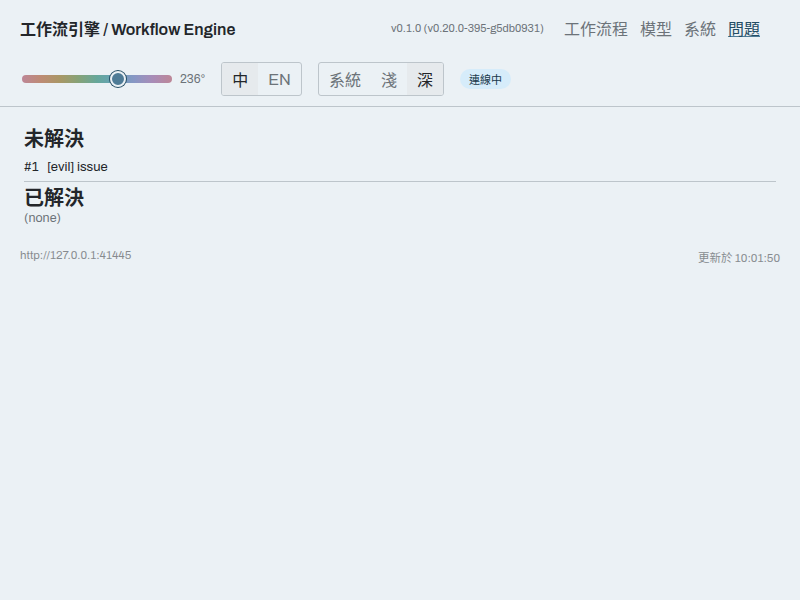
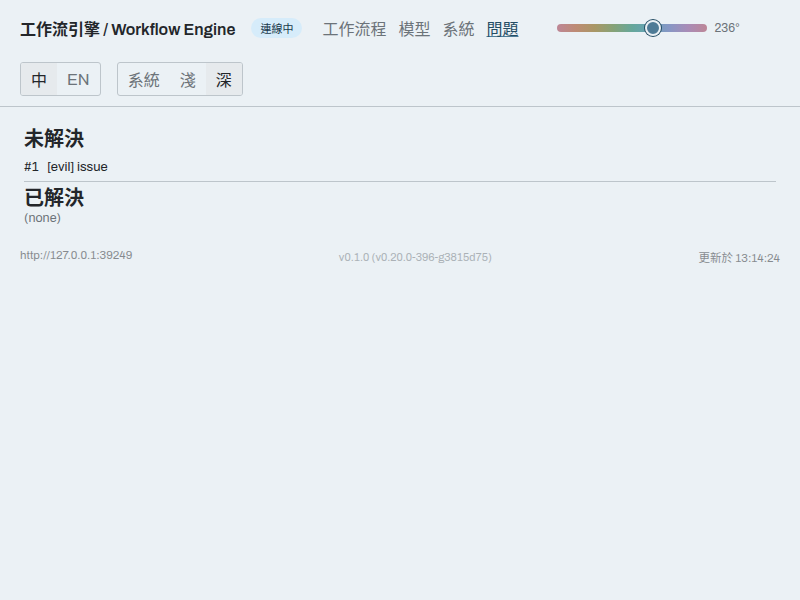
fix(v29e): REQ-160/161 — 第三群,導覽列依設計稿收斂;版本叢集移至頁尾而非刪除
全回歸 416 檔 / 3003 通過 / 0 失敗。tsc 兩份設定皆 exit 0。

擁有者裁決「照設計稿」。B24 直接照做:連線標記從整列最右移到品牌旁,
README「Header / chrome」的順序是 brand + source tag → 分頁 → 右側叢集。

B25 的字面執行會退掉一條需求,所以沒有直接刪。01-requirements.md:717(REQ-070)
要求「The applied version and the last-update outcome are observable on the
dashboard」,observable 條款直接點名「the dashboard's update panel shows the failed
outcome for that tag」。而 README §1–§5 沒有自我更新這個功能 —— 設計稿能裁決的是
導覽列長什麼樣,不是一個它沒看過的功能要不要存在。

因此導覽列依 README 清空,版本 / 更新結果 / 中斷執行 CTA 移到頁尾:頁尾是設計稿
有定義的面(API base left, Updated 右),在那裡多一項比在導覽列硬塞一個沒有槽位的
叢集偏離更小。

既有驗收案例只斷言那三個 class 存在且文字正確、沒有斷言位置,所以搬家後自動通過。
仍然改了它的標題 —— 原文寫「in the rendered nav」,標題說謊比斷言失效更難發現。

順手移除 .rwe-update-panel 的 margin-left:auto:那是導覽列時代用來把叢集推到列尾的,
在 space-between 的頁尾裡與版面規則打架。理由消失,規則就該消失。

Claude-Session: https://claude.ai/code/session_01Fxyx6H8N3HcHBBWga6siqD

diff --git a/src/dashboard/ui/app.js b/src/dashboard/ui/app.js
@@ -173,13 +173,20 @@ function updateFooterClock() {
   footerUpdatedEl.textContent = `${L(prefs.lang, 'updated')} ${fmtClock(d)}`;
 }
 
-function buildFooter() {
+function buildFooter(island, lang) {
   const footer = document.createElement('footer');
   footer.className = 'rwe-footer';
   footer.setAttribute('data-footer', '');
   const api = document.createElement('span');
   api.textContent = location.origin;
   footer.appendChild(api);
+  // [v29e, REQ-161] The engine's version + last-update outcome + interrupted-runs CTA live here
+  // now. README "Header / chrome" gives the nav brand, source tag and tabs and nothing else, so
+  // the cluster had no slot there — but REQ-070 requires this information to stay observable on
+  // the dashboard, and the handoff never covered the self-update feature, so it cannot rule that
+  // requirement away. The footer is the surface the design DOES define for engine-side facts
+  // (API base left, clock right); this joins it rather than disappearing.
+  footer.appendChild(buildUpdatePanel(island, lang));
   footerUpdatedEl = document.createElement('span');
   footer.appendChild(footerUpdatedEl);
   updateFooterClock();
@@ -266,8 +273,16 @@ function buildChrome(island) {
   brand.setAttribute('data-nav-brand', '');
   brand.textContent = tStr(prefs.lang, 'brand');
   nav.appendChild(brand);
-
-  nav.appendChild(buildUpdatePanel(island, prefs.lang));
+  // [v29e, REQ-160] README "Header / chrome": the source tag sits NEXT TO the brand, not at the far
+  // right of the cluster. [REQ-161] The engine's version/update strings used to sit here; the
+  // design's nav has no slot for them and they are not chrome — they move to the footer, which the
+  // design does define. They are NOT deleted: REQ-070 requires the applied version and the
+  // last-update outcome to stay observable on the dashboard, and the design handoff never covered
+  // the self-update feature at all, so it cannot rule that requirement away.
+  connectionTagEl = document.createElement('span');
+  connectionTagEl.className = 'rwe-connection';
+  connectionTagEl.setAttribute('data-connection-tag', '');
+  nav.appendChild(connectionTagEl);
 
   const tabStrip = document.createElement('div');
   tabStrip.className = 'rwe-tabs';
@@ -368,9 +383,6 @@ function buildChrome(island) {
   }
   nav.appendChild(themeGroup);
 
-  connectionTagEl = document.createElement('span');
-  connectionTagEl.className = 'rwe-connection';
-  nav.appendChild(connectionTagEl);
 
   // [v28, DES-212, TASK-220, REQ-143] the shell banner — a child of `nav`, so it is OUTSIDE
   // `mountLazy`'s per-route `container.replaceChildren()` reach and survives every tab/route
@@ -597,7 +609,7 @@ function mountApp() {
   const island = readIsland();
   applyTheme();
   const { nav, routeMount } = buildChrome(island);
-  document.body.replaceChildren(nav, routeMount, buildFooter());
+  document.body.replaceChildren(nav, routeMount, buildFooter(island, prefs.lang));
   mountRoute();
   // [v28, DES-212, TASK-220, REQ-143] the ONE boot-time load of the demo fiction — `no-store`
   // fresh bytes per load (ARCH-123's v28 amendment), fire-and-forget, never statically imported (a

diff --git a/tests/acceptance/val-198-shell-and-home.test.ts b/tests/acceptance/val-198-shell-and-home.test.ts
@@ -353,7 +353,42 @@ describe('the v27 dashboard shell + Workflows home, real Chromium (VAL-198, REQ-
   // `#rwe-init`'s raw text. A SEPARATE server/workRoot is needed (not the shared `server` above):
   // an `interruptedRuns` > 0 count and an `applied` `lastUpdate` (the CTA's own two-conjunct
   // condition, `lib/status.js`) both come from real boot-time state a running dashboard never has.
-  itReal('the update panel is reachable in the rendered nav: version, outcome, and the interrupted-runs CTA (AC-6, INV-V27-5)', async () => {
+  // [v29e, REQ-160/161] The nav follows README "Header / chrome" exactly: brand, the source tag
+  // next to it, the tabs, then the right cluster. Two version strings the design has no slot for
+  // sat between the brand and the tabs, and the source tag sat at the far right instead.
+  itReal('the nav is brand -> source tag -> tabs -> right cluster, with no version text (REQ-160/161)', async () => {
+    const puppeteer = (await import('puppeteer')).default;
+    const browser = await puppeteer.launch({ headless: 'new' as never, executablePath: chrome!, args: ['--no-sandbox'] });
+    try {
+      const page = await browser.newPage();
+      await page.goto(`${baseUrl}/dashboard`, { waitUntil: 'networkidle0', timeout: 10000 });
+      await new Promise((r) => setTimeout(r, 900));
+      const nav = await page.evaluate(() => {
+        const n = document.querySelector('.rwe-nav')!;
+        const x = (sel: string) => {
+          const e = n.querySelector(sel);
+          return e ? Math.round((e as HTMLElement).getBoundingClientRect().x) : -1;
+        };
+        return {
+          text: (n as HTMLElement).innerText.replace(/\s+/g, ' ').trim(),
+          brandX: x('.nav-brand'),
+          tagX: x('.rwe-connection'),
+          firstTabX: x('[data-tab]'),
+        };
+      });
+      // the engine's own version/update strings are not nav chrome (README has no slot for them)
+      expect(nav.text, 'a version string is still in the nav').not.toMatch(/v\d+\.\d+\.\d+/);
+      expect(nav.text).not.toContain('applied');
+      // README: "brand ... + source tag", then the tabs
+      expect(nav.brandX).toBeGreaterThanOrEqual(0);
+      expect(nav.tagX, 'the source tag is not beside the brand').toBeGreaterThan(nav.brandX);
+      expect(nav.tagX, 'the source tag is not before the tabs').toBeLessThan(nav.firstTabX);
+    } finally {
+      await browser.close();
+    }
+  }, 20000);
+
+  itReal('the update panel is reachable: version, outcome, and the interrupted-runs CTA (AC-6, INV-V27-5, moved to the footer in v29e)', async () => {
     const crashDir = mkdtempSync(join(tmpdir(), 'rwe-val198-crash-'));
     const resultDir = mkdtempSync(join(tmpdir(), 'rwe-val198-result-'));
     let crashServer: Server | undefined;

diff --git a/src/dashboard/dashboard.css b/src/dashboard/dashboard.css
@@ -244,7 +244,10 @@ pre{white-space:pre-wrap;background:var(--color-panel2);border:1px solid var(--c
 .rwe-hue-slider::-moz-range-thumb{width:16px;height:16px;border-radius:50%;background:var(--color-accent);border:2px solid var(--color-bg);box-shadow:0 0 0 1px var(--accent-700)}
 .rwe-hue-value{font-size:12px;color:var(--color-muted);font-variant-numeric:tabular-nums}
 .rwe-version{font-size:11px;color:var(--color-muted);font-variant-numeric:tabular-nums}
-.rwe-update-panel{display:flex;align-items:center;gap:10px;font-size:12px;margin-left:auto}
+/* [v29e, REQ-161] `margin-left:auto` is gone with the reason for it: the panel used to sit in the
+   nav and needed pushing to the end of that row. In the footer it fought `space-between`. Three
+   children now distribute as the design's footer reads — API base left, clock right. */
+.rwe-update-panel{display:flex;align-items:center;gap:10px;font-size:12px}
 .rwe-update-outcome{color:var(--color-muted)}
 .rwe-update-cta{color:var(--color-link)}
 .rwe-config-check{color:var(--color-muted)}

diff --git a/.sdlc/features/001-remote-workflow-engine/06-impl-log.md b/.sdlc/features/001-remote-workflow-engine/06-impl-log.md
@@ -8357,3 +8357,40 @@ hit stack: ["span#.stat-value","div#.","div#.stat-cards","aside#.agent-panel fro
 這是兩個滑入面板彼此不一致,不是缺一條設計條款。用同一個 `rweFadeIn`。
 
 真跑:遮罩存在、動畫名 `rweFadeIn`、覆蓋 1440px。
+
+---
+
+## v29e 第三群 — REQ-160/161(導覽列)
+
+### IMPL-318 — 連線標記移到品牌旁,版本叢集移到頁尾
+- **traces:** REQ-160, REQ-161
+- **files:** `src/dashboard/ui/app.js`, `src/dashboard/dashboard.css`
+- **tests:** val-198 新增導覽列形狀案例;既有的更新面板案例改標題
+
+**擁有者裁決「照設計稿」,但 B25 的字面執行會退掉一條需求,所以沒有直接刪。**
+
+`01-requirements.md:717`(REQ-070)明文要求「The applied version and the last-update outcome
+(success/failure + tag + time) are **observable on the dashboard**」,observable 條款直接點名
+「the dashboard's **update panel** shows the failed outcome for that tag」。
+
+**而 README §1–§5 沒有自我更新這個功能。** 設計稿能裁決的是導覽列長什麼樣,
+不是「一個它沒看過的功能要不要存在」。因此:導覽列依 README 清空,叢集移到**頁尾** ——
+頁尾是設計稿有定義的面,在那裡多一項比在導覽列硬塞一個沒有槽位的叢集偏離更小。
+
+**既有驗收案例為什麼還是綠的,以及我為什麼仍然改了它:** 它只斷言
+`.rwe-version` / `.rwe-update-outcome` / `.rwe-update-cta` 存在且文字正確,
+**沒有斷言位置**,所以搬家後自動通過。但它的標題寫著「in the rendered nav」——
+**標題說謊比斷言失效更難發現**,已改為註明 v29e 移至頁尾。
+
+**順手移除 `.rwe-update-panel` 的 `margin-left:auto`。** 那是導覽列時代用來把叢集推到
+列尾的;在 `space-between` 的頁尾裡它與版面規則打架。理由消失,規則就該消失。
+
+### 真跑
+
+```
+nav     工作流引擎 / Workflow Engine  連線中  工作流程 模型 系統 問題  236° 中 EN 系統 淺 深
+        brand=20 → tag=251 → firstTab=318 → hue=557
+footer  http://127.0.0.1:8951  v0.1.0 (…)  v0.20.0: applied  更新於 13:08:37
+```
+
+導覽列文字不含 `v\d+\.\d+\.\d+`、不含 `applied`;標記的 x 介於品牌與第一個分頁之間。
